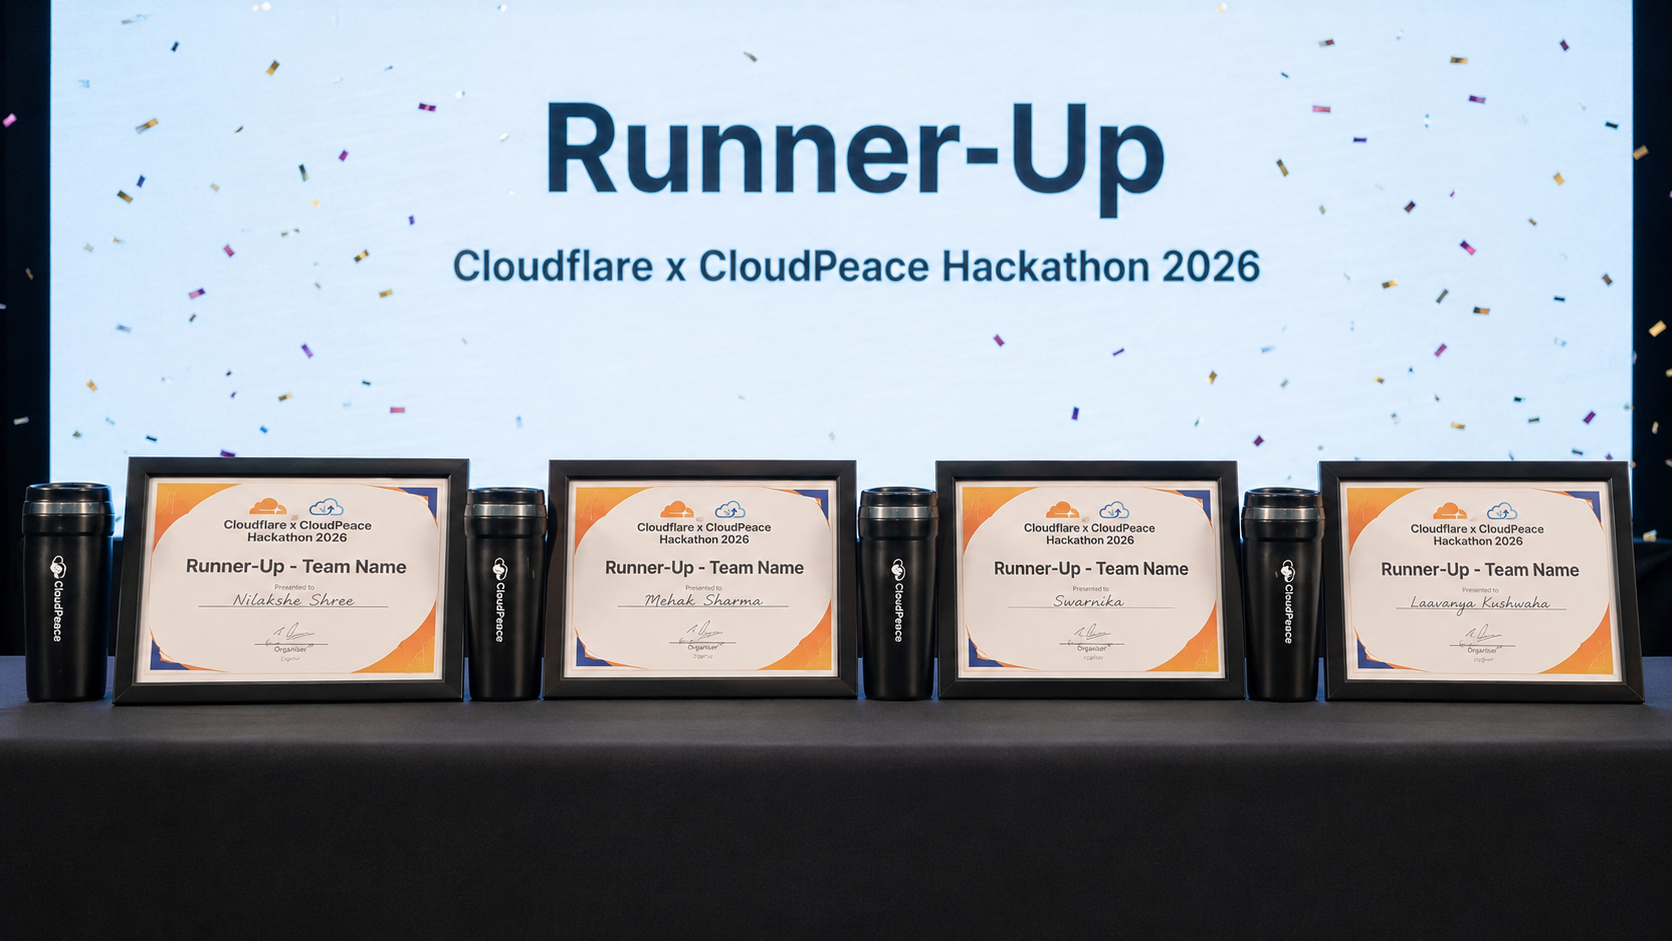
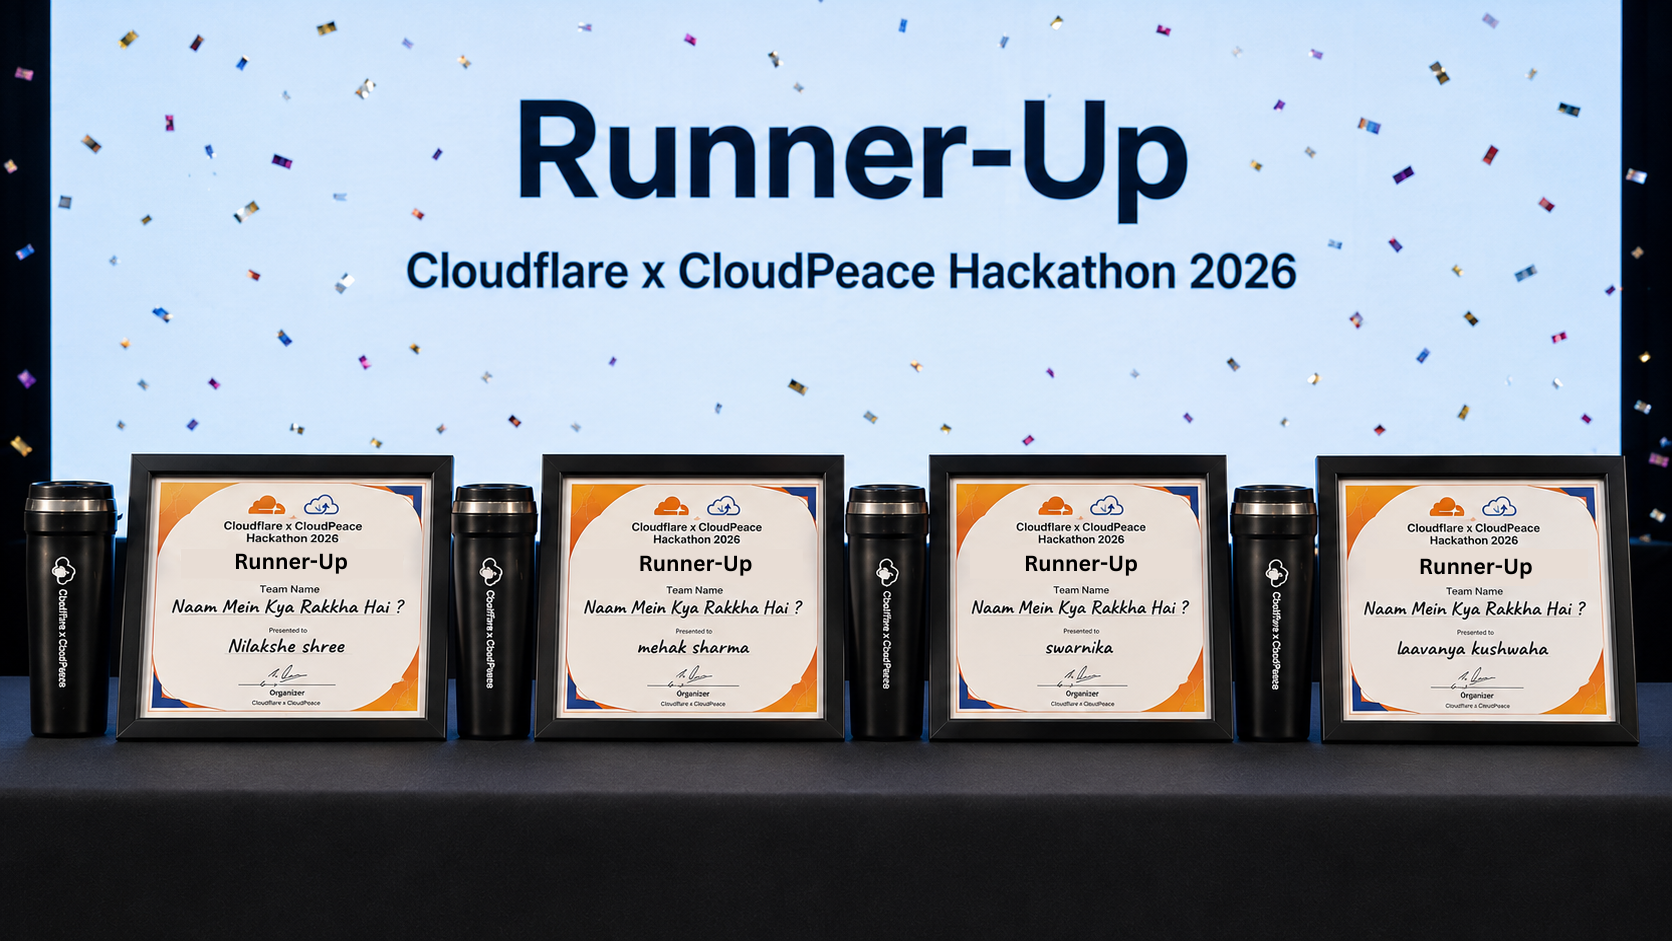
Fix component syntax, ESLint warnings, and update Next.js image imports

diff --git a/src/app/certificates/page.js b/src/app/certificates/page.js
@@ -1,6 +1,7 @@
 'use client';
 
 import React from 'react';
+import Image from 'next/image';
 
 const certificates = [
   {
@@ -24,70 +25,69 @@ const certificates = [
     link: 'https://drive.google.com/file/d/1XW__8E9Qzh8Ph5aQpH-oR3YS-YLCfPr_/view',
     logo: '/logos/igdtuw.png',
   },
-
   {
-  title: 'Gen AI Study Jam 2024',
-  issuer: 'Google Developer Student Clubs (IGDTUW)',
-  year: '2024',
-  link: 'https://drive.google.com/file/d/1UgFJOixO3iGTrjY7i3kQdGfLRbtf2oJh/view?usp=sharing', 
-  logo: '/logos/gdg.png',
-},
-
-{
-  title: 'Drone Workshop – WIEmPower 5.0',
-  issuer: 'IEEE IGDTUW (EDS Delhi Chapter)',
-  year: '2024',
-  link: 'https://drive.google.com/file/d/1afK1VtF7OGsaaJs7Yx1Ry2EvXFIvvT99/view?usp=sharing', 
-  logo: '/logos/ieee.png',
-},
-
-{
-  title: 'Logo Design Competition',
-  issuer: 'NIRVANA × ACM IGDTUW',
-  year: '2024',
-  link: 'https://drive.google.com/file/d/1BhsAYgRwlMtzXVwjScoNQBrbFumpfel9/view?usp=sharing',
-  logo: '/logos/nirvana.png',
-},
-
-  
+    title: 'Gen AI Study Jam 2024',
+    issuer: 'Google Developer Student Clubs (IGDTUW)',
+    year: '2024',
+    link: 'https://drive.google.com/file/d/1UgFJOixO3iGTrjY7i3kQdGfLRbtf2oJh/view?usp=sharing',
+    logo: '/logos/gdg.png',
+  },
+  {
+    title: 'Drone Workshop – WIEmPower 5.0',
+    issuer: 'IEEE IGDTUW (EDS Delhi Chapter)',
+    year: '2024',
+    link: 'https://drive.google.com/file/d/1afK1VtF7OGsaaJs7Yx1Ry2EvXFIvvT99/view?usp=sharing',
+    logo: '/logos/ieee.png',
+  },
+  {
+    title: 'Logo Design Competition',
+    issuer: 'NIRVANA × ACM IGDTUW',
+    year: '2024',
+    link: 'https://drive.google.com/file/d/1BhsAYgRwlMtzXVwjScoNQBrbFumpfel9/view?usp=sharing',
+    logo: '/logos/nirvana.png',
+  },
 ];
 
 const CertificatesSection = () => {
   return (
-    <section className="bg-black text-white py-24 px-4 md:px-10">
-      <h2 className="text-4xl font-extrabold text-center mb-6 text-teal-300 tracking-wide">
+    <section id="certificates" className="bg-black text-white py-24 px-4 md:px-10">
+      <h2 className="text-4xl md:text-5xl font-extrabold text-center mb-12 text-teal-400 tracking-wide">
         Certifications
       </h2>
 
       {/* Centered Grid */}
       <div className="max-w-6xl mx-auto">
-        <div className="grid gap-10 grid-cols-1 md:grid-cols-2 lg:grid-cols-3 place-items-center">
+        <div className="grid gap-8 grid-cols-1 md:grid-cols-2 lg:grid-cols-3 place-items-center">
           {certificates.map((cert, idx) => (
             <a
               key={idx}
               href={cert.link}
               target="_blank"
               rel="noopener noreferrer"
-              className="w-full max-w-[360px] bg-[#111827] border border-gray-800 rounded-2xl p-8 shadow-xl
-                         transition-all duration-300 hover:scale-105 hover:border-teal-400 hover:shadow-teal-500/20"
+              className="w-full max-w-[360px] bg-[#111827] border border-gray-800 rounded-2xl p-8 shadow-xl flex flex-col justify-between min-h-[280px]
+                         transition-all duration-300 hover:scale-105 hover:border-teal-400 hover:shadow-[0_0_20px_rgba(45,212,191,0.2)]"
             >
-              <div className="flex justify-center mb-6">
-                <img
-                  src={cert.logo}
-                  alt={cert.issuer}
-                  className="h-16 w-auto object-contain"
-                />
+              <div>
+                <div className="flex justify-center mb-6 h-16 items-center">
+                  <Image
+                    src={cert.logo}
+                    alt={`${cert.issuer} logo`}
+                    width={140}
+                    height={64}
+                    className="h-16 w-auto object-contain max-w-[160px]"
+                  />
+                </div>
+
+                <h3 className="text-lg font-semibold text-center text-white line-clamp-2">
+                  {cert.title}
+                </h3>
+
+                <p className="text-sm text-gray-400 text-center mt-2">
+                  {cert.issuer} • {cert.year}
+                </p>
               </div>
 
-              <h3 className="text-lg font-semibold text-center text-white">
-                {cert.title}
-              </h3>
-
-              <p className="text-sm text-gray-400 text-center mt-3">
-                {cert.issuer} • {cert.year}
-              </p>
-
-              <p className="text-sm text-teal-400 text-center mt-6 font-medium">
+              <p className="text-sm text-teal-400 text-center mt-6 font-medium group-hover:underline">
                 View Certificate →
               </p>
             </a>

diff --git a/src/app/experience/page.js b/src/app/experience/page.js
@@ -75,6 +75,7 @@
 'use client';
 
 import React from 'react';
+import Image from 'next/image';
 
 const experiences = [
   {
@@ -126,7 +127,7 @@ const experiences = [
 
 const ExperienceTimeline = () => {
   return (
-    <section className="bg-black text-white py-24 px-4 md:px-10 id='experience'">
+    <section id="experience" className="bg-black text-white py-24 px-4 md:px-10">
       <div className="max-w-5xl mx-auto">
         <h2 className="text-4xl md:text-5xl font-extrabold text-center mb-16 text-teal-400 tracking-wide">
           Experience
@@ -161,16 +162,15 @@ const ExperienceTimeline = () => {
                     </p>
                   </div>
 
-                  {/* Company Logo */}
+                  {/* Company Logo using Next.js Image */}
                   {exp.logo && (
                     <div className="p-2 bg-slate-900/80 rounded-lg border border-gray-800 shrink-0">
-                      <img
+                      <Image
                         src={exp.logo}
                         alt={`${exp.org} logo`}
+                        width={120}
+                        height={48}
                         className="h-12 w-auto object-contain max-w-[120px]"
-                        onError={(e) => {
-                          e.currentTarget.style.display = 'none';
-                        }}
                       />
                     </div>
                   )}

diff --git a/src/app/components/HeroSection.js b/src/app/components/HeroSection.js
@@ -244,7 +244,7 @@ const HeroSection = () => {
 
         {/* Main Heading */}
         <h1 className="text-5xl sm:text-6xl md:text-7xl font-extrabold tracking-tight mb-4">
-          Hello, I'm{" "}
+          Hello, I&apos;m{" "}
           <span className="bg-gradient-to-r from-teal-300 via-cyan-400 to-blue-500 bg-clip-text text-transparent drop-shadow-[0_0_25px_rgba(34,211,238,0.2)]">
             Laavanya Kushwaha
           </span>
